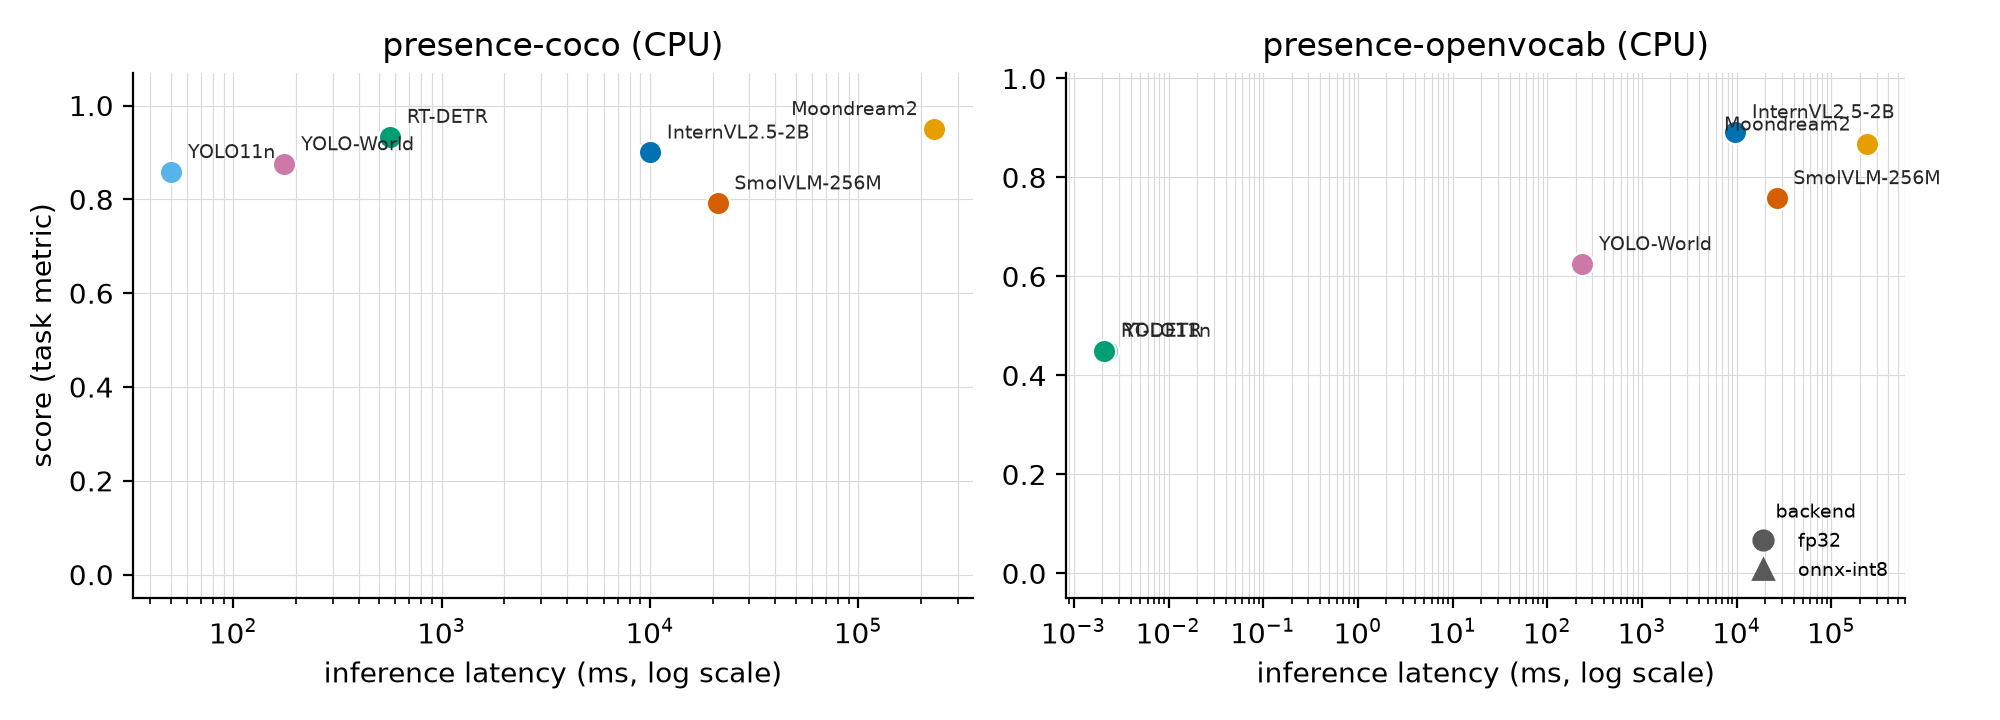
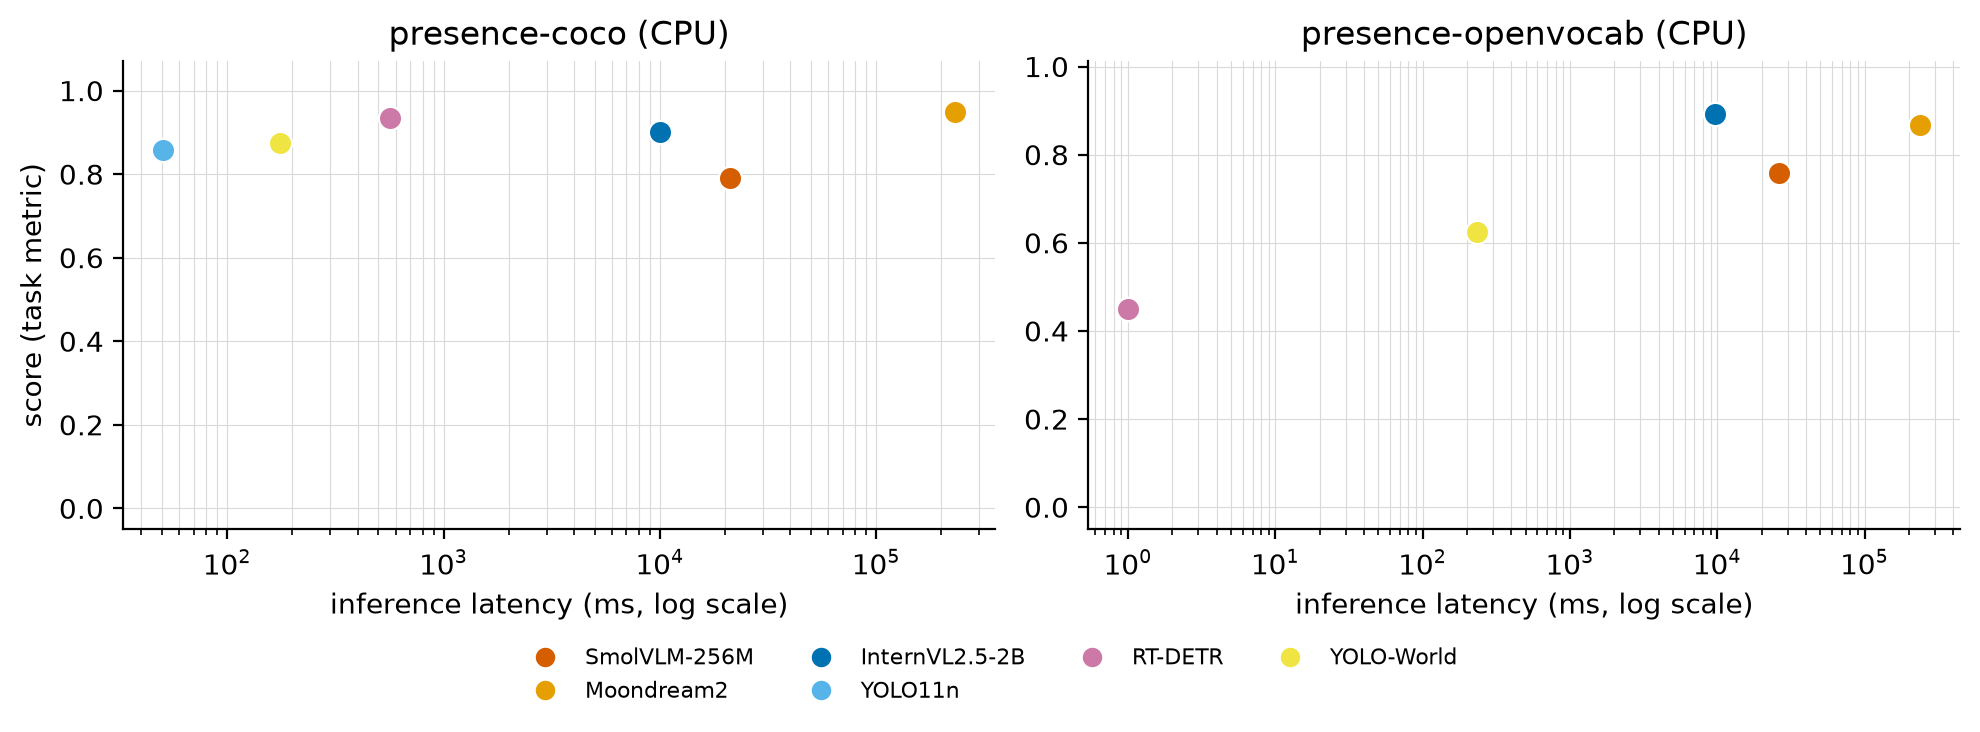
report: fixed per-model colours + model legend in trade-off figures
Two figure defects reported on the presence figure:
- Colour inconsistency: the palette was assigned by index within the subset
  present, so a model (e.g. InternVL2.5-2B) got a different colour in the main
  figure vs the presence figure. Replace with a fixed model->colour map keyed by
  model id, so colour follows the entity and is identical across every figure.
- Overlapping labels: with many models (and two detectors that coincide at
  0 ms / chance on open-vocab), per-point labels printed on top of each other.
  Drop direct labels in favour of a shared model legend (colour -> name); the
  backend legend now appears only when >1 backend is shown. Floor the log-x axis
  at 1 ms so 0-ms short-circuit detectors are placed sensibly.

diff --git a/src/vlmbench/report/figures.py b/src/vlmbench/report/figures.py
@@ -82,38 +82,41 @@ def latex_results_table(results: list[CellResult], task: str | None = None,
     return header + body + footer
 
 
-# Okabe-Ito colourblind-safe qualitative palette (validated: adjacent CVD
-# deltaE >= 11). Identity is carried by colour (per model) AND by the direct
-# model-name label on every point (fp32 and INT8 alike), so no point relies on
-# colour alone.
-_MODEL_COLORS = ("#0072B2", "#E69F00", "#009E73", "#D55E00", "#CC79A7", "#56B4E9", "#F0E442")
+# Fixed per-model colours (Okabe-Ito, colourblind-safe). Keyed by model id so a
+# model keeps the SAME colour in every figure regardless of which subset is
+# present -- colour follows the entity, never its rank in the current subset.
+_MODEL_COLOR = {
+    "smolvlm-256m":   "#D55E00",
+    "moondream2":     "#E69F00",
+    "florence2-base": "#009E73",
+    "internvl2_5-2b": "#0072B2",
+    "yolo11n":        "#56B4E9",
+    "rt-detr":        "#CC79A7",
+    "yolo-world":     "#F0E442",
+}
 _BACKEND_MARKERS = {"fp32": "o", "onnx-int8": "^"}
+_LOG_X_FLOOR = 1.0  # ms; short-circuit detectors report 0 ms (log axis needs >0)
 
 
-def _plot_tradeoff_ax(ax, rows, color_of) -> None:
-    """Draw one accuracy-vs-latency panel (log-x, colour=model, marker=backend,
-    direct labels that diverge same-model pairs to avoid collisions)."""
-    ax.set_xscale("log")  # latency spans ~2s..215s; log separates the cluster
+def _color_of(model: str) -> str:
+    return _MODEL_COLOR.get(model, "#333333")
+
+
+def _plot_tradeoff_ax(ax, rows) -> None:
+    """Draw one accuracy-vs-latency panel (log-x, colour=model, marker=backend).
+
+    Model identity is carried by the (fixed) colour plus the figure's model
+    legend, so points are not directly labelled --- which keeps coincident
+    points (e.g. two fixed detectors that both short-circuit at 0 ms) legible."""
+    ax.set_xscale("log")  # latency spans ~1ms..215s; log separates the cluster
     ax.grid(True, which="both", linewidth=0.4, color="0.85", zorder=0)
     for spine in ("top", "right"):
         ax.spines[spine].set_visible(False)
-    x_max = max((r.infer_ms_mean for r in rows), default=1.0)
     for r in rows:
         marker = _BACKEND_MARKERS.get(r.backend, "s")
-        ax.scatter(r.infer_ms_mean, r.metric_value, s=70, marker=marker,
-                   color=color_of[r.model], edgecolors="white", linewidths=0.8,
-                   zorder=3)
-        if r.backend == "fp32":
-            label = _name(r.model)
-            right_edge = r.infer_ms_mean > x_max / 3
-            dx, ha = (-6, "right") if right_edge else (6, "left")
-        else:
-            # Label INT8 points with the model name too (marker encodes the
-            # backend), so identity never rests on colour alone (audit E7).
-            label, dx, ha = f"{_name(r.model)} INT8", -6, "right"
-        ax.annotate(label, (r.infer_ms_mean, r.metric_value),
-                    textcoords="offset points", xytext=(dx, 5), ha=ha,
-                    fontsize=7, color="0.15")
+        ax.scatter(max(r.infer_ms_mean, _LOG_X_FLOOR), r.metric_value, s=70,
+                   marker=marker, color=_color_of(r.model), edgecolors="white",
+                   linewidths=0.8, zorder=3)
     ax.set_xlabel("inference latency (ms, log scale)")
     ax.set_ylim(-0.05, max((r.metric_value for r in rows), default=1.0) + 0.12)
 
@@ -128,27 +131,38 @@ def save_tradeoff_plot(results: list[CellResult], path,
           and r.infer_ms_mean is not None and r.metric_value is not None
           and r.model not in exclude]
 
-    # Stable model -> colour assignment, shared across task panels.
-    models = sorted({r.model for r in ok})
-    color_of = {m: _MODEL_COLORS[i % len(_MODEL_COLORS)] for i, m in enumerate(models)}
     tasks = sorted({r.task for r in ok})
 
     fig, axes = plt.subplots(1, max(len(tasks), 1), figsize=(5.0 * max(len(tasks), 1), 3.6),
                              squeeze=False)
     axes = axes[0]
     for ax, task in zip(axes, tasks):
-        _plot_tradeoff_ax(ax, [r for r in ok if r.task == task], color_of)
+        _plot_tradeoff_ax(ax, [r for r in ok if r.task == task])
         ax.set_title(f"{task} (CPU)")
     axes[0].set_ylabel("score (task metric)")
 
-    # One backend legend (marker shape); model identity is colour + direct label.
-    handles = [Line2D([0], [0], marker=m, linestyle="none", color="0.35",
-                      markerfacecolor="0.35", markersize=7, label=b)
-               for b, m in _BACKEND_MARKERS.items()]
-    axes[-1].legend(handles=handles, title="backend", fontsize=7,
-                    title_fontsize=7, frameon=False, loc="lower right")
+    backends = {r.backend for r in ok}
+    # Backend legend (marker shape) only when more than one backend is shown.
+    if len(backends) > 1:
+        bh = [Line2D([0], [0], marker=m, linestyle="none", color="0.35",
+                     markersize=7, label=b)
+              for b, m in _BACKEND_MARKERS.items() if b in backends]
+        axes[-1].legend(handles=bh, title="backend", fontsize=7,
+                        title_fontsize=7, frameon=False, loc="lower right")
 
-    fig.tight_layout()
-    fig.savefig(path, dpi=200)
+    # Shared model legend (fixed colour -> name), in fixed order, below the
+    # panels: identity is colour + legend, consistent across every figure.
+    present = {r.model for r in ok}
+    models_present = ([m for m in _MODEL_COLOR if m in present]
+                      + sorted(present - set(_MODEL_COLOR)))
+    mh = [Line2D([0], [0], marker="o", linestyle="none", color=_color_of(m),
+                 markeredgecolor="white", markersize=8, label=_name(m))
+          for m in models_present]
+    if mh:
+        fig.legend(handles=mh, ncol=min(len(mh), 4), fontsize=8, frameon=False,
+                   loc="lower center", bbox_to_anchor=(0.5, -0.02))
+
+    fig.tight_layout(rect=(0, 0.08, 1, 1))
+    fig.savefig(path, dpi=200, bbox_inches="tight")
     plt.close(fig)
     return path
